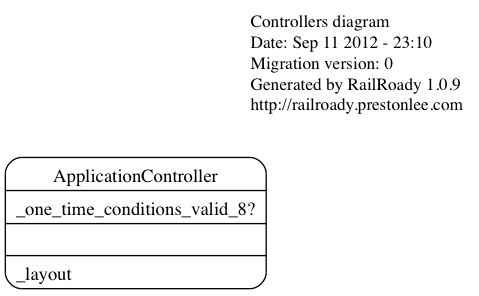
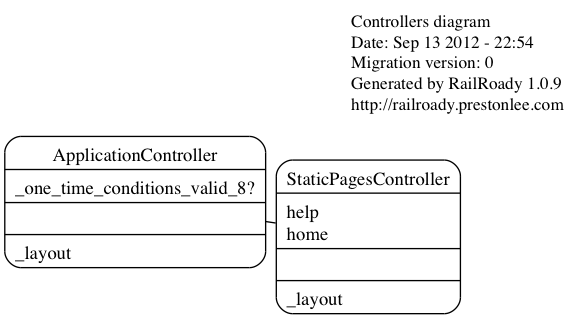
add a StaticPages controller

Changed region(s): [[0.0, 0.3953, 0.8184, 1.0], [0.5261, 0.0304, 0.9937, 0.3953]]

diff --git a/app/assets/stylesheets/static_pages.css.scss b/app/assets/stylesheets/static_pages.css.scss
@@ -1,0 +1,3 @@
+// Place all the styles related to the StaticPages controller here.
+// They will automatically be included in application.css.
+// You can use Sass (SCSS) here: http://sass-lang.com/

diff --git a/config/routes.rb b/config/routes.rb
@@ -1,4 +1,8 @@
 SampleApp::Application.routes.draw do
+  get "static_pages/home"
+
+  get "static_pages/help"
+
   # The priority is based upon order of creation:
   # first created -> highest priority.
 

diff --git a/app/controllers/static_pages_controller.rb b/app/controllers/static_pages_controller.rb
@@ -1,0 +1,7 @@
+class StaticPagesController < ApplicationController
+  def home
+  end
+
+  def help
+  end
+end

diff --git a/app/helpers/static_pages_helper.rb b/app/helpers/static_pages_helper.rb
@@ -1,0 +1,2 @@
+module StaticPagesHelper
+end

diff --git a/README.md b/README.md
@@ -1,0 +1,5 @@
+# Ruby on Rails Tutorial: sample application
+
+This is the sample application for
+[*Ruby on Rails Tutorial: Learn Rails by Example*](http://railstutorial.org/)
+by [Michael Hartl](http://michaelhartl.com/).
